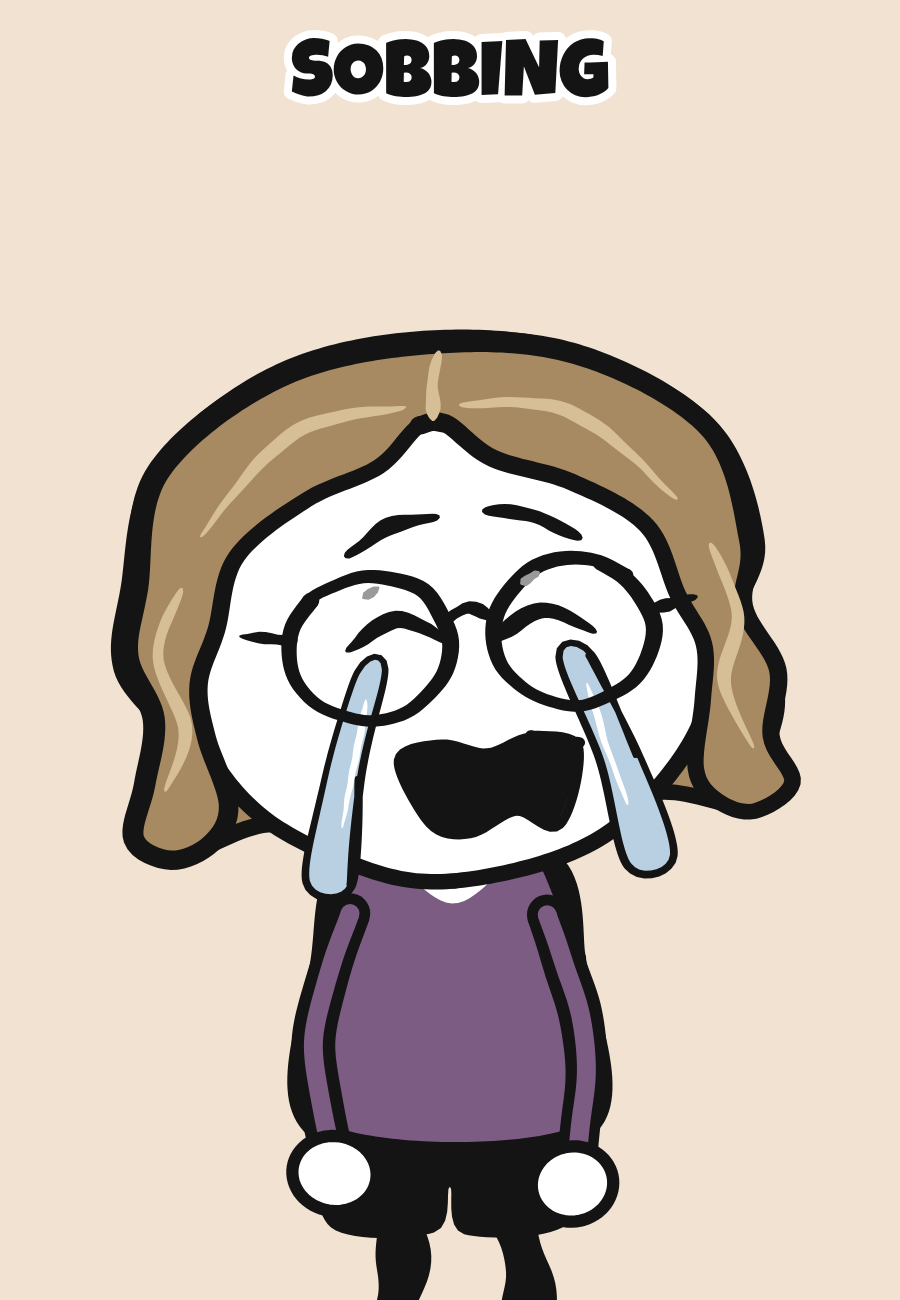
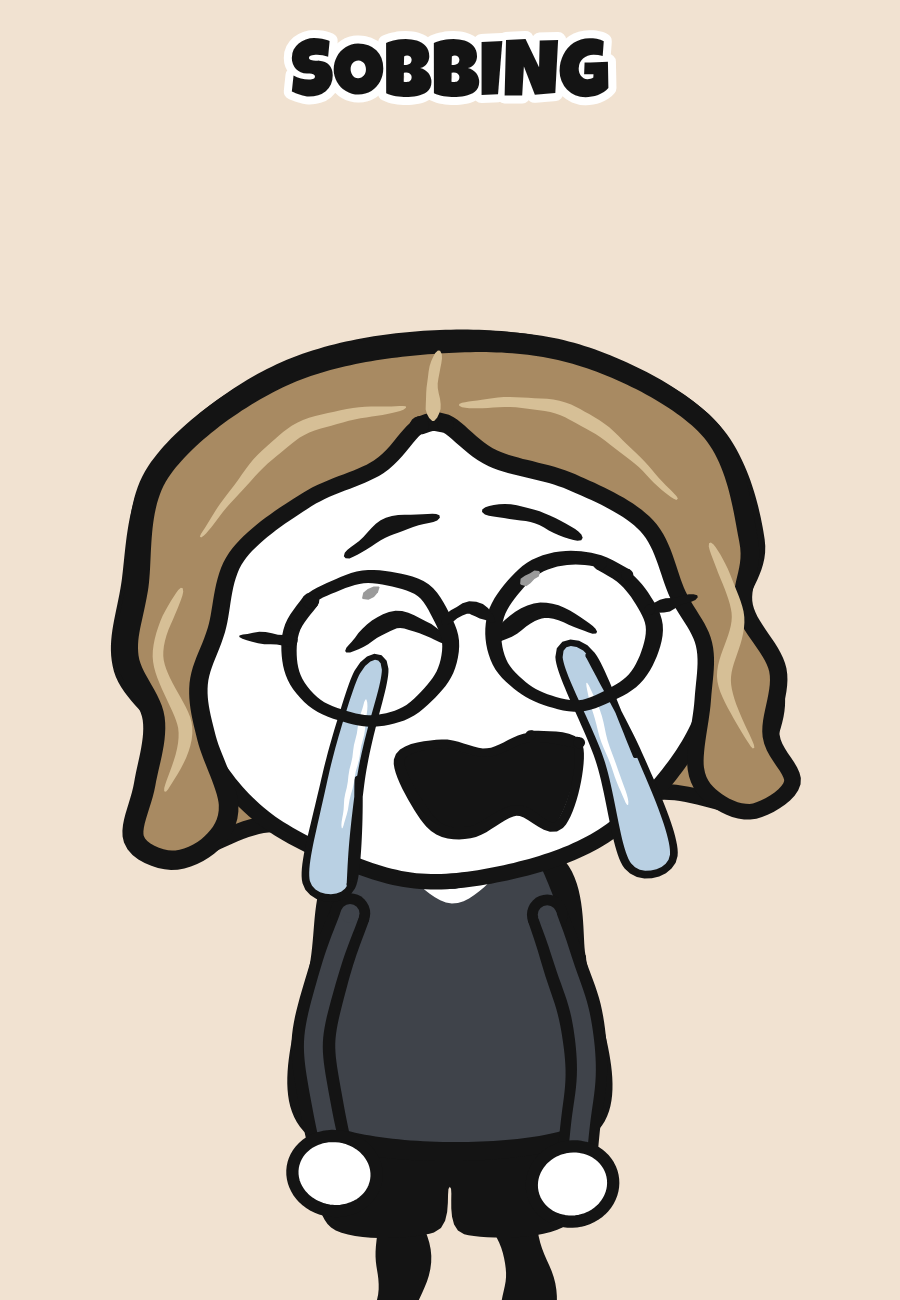
Nick: charcoal shirt (he usually wears black)
Claude-Session: https://claude.ai/code/session_01LiAhoToACMqXM1HQWChUWe

Changed region(s): [[0.3111, 0.6769, 0.6844, 0.8923]]

diff --git a/web/palette.js b/web/palette.js
@@ -51,7 +51,7 @@ const Palette = (() => {
     speed:  { skin: '#a07561', straw: '#d9b86c', strawLine: '#a98a45', band: '#b8473d', vest: '#b8473d', button: '#e3c25a', sash: '#e3c25a', shorts: '#5a78a0' },   // One Piece straw hat, red vest, yellow sash, blue shorts; hair stays black
     ludwig: { hair: '#d8b878', shirt: '#8fb0cf', pineapple: '#ecd79a', leaf: '#7c8a5c' },                 // blond, a pale blue shirt with butter pineapples
     beast:  { hair: '#46332a', hoodie: '#e3b94a' },                                                       // dark brown hair and beard, a yellow hoodie (he wears black or yellow: yellow carries the colour)
-    nick:   { hair: '#a88a62', hairLine: '#d6bf96', shirt: '#7c5c82' },                                   // brown hair (the grey mop was brown), a dusty plum shirt
+    nick:   { hair: '#a88a62', hairLine: '#d6bf96', shirt: '#3f434a' },                                   // light brown hair, a charcoal shirt (he usually wears black)
     slime:  { shirt: '#6f9a4f', stubble: '#3d3029', scalp: '#c9b8a6' },                                    // a moss-green shirt, dark stubble on a shaved head
     squeex: { skin: '#c4a08d', hair: '#3b2c24', hairLine: '#7a6050', beard: '#4a382d', tick: '#2e2420', overshirt: '#4a5568', tee: '#d6ccb8', khaki: '#b3a27c', button: '#efe6d9' },   // dark brown hair and beard, slate overshirt, oatmeal tee, khakis
   };
